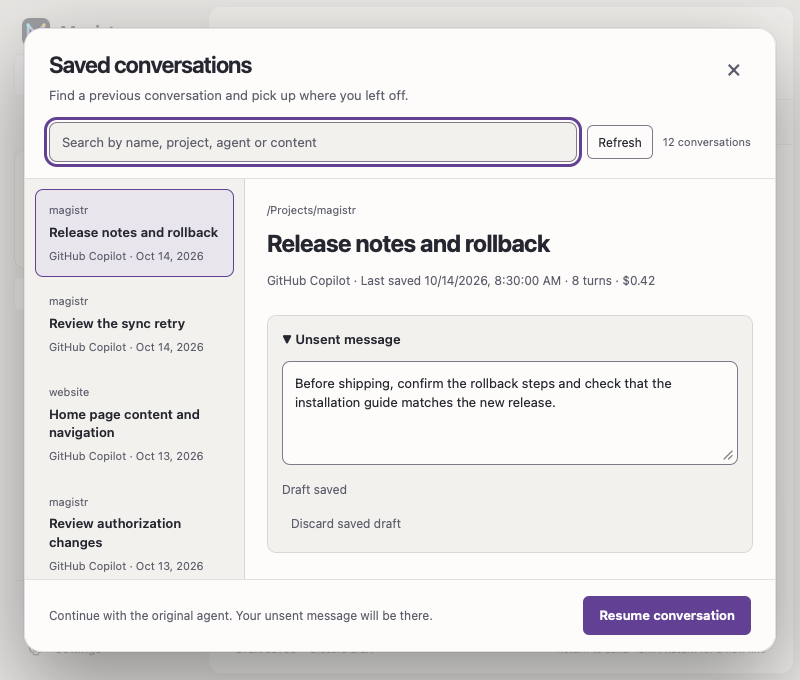
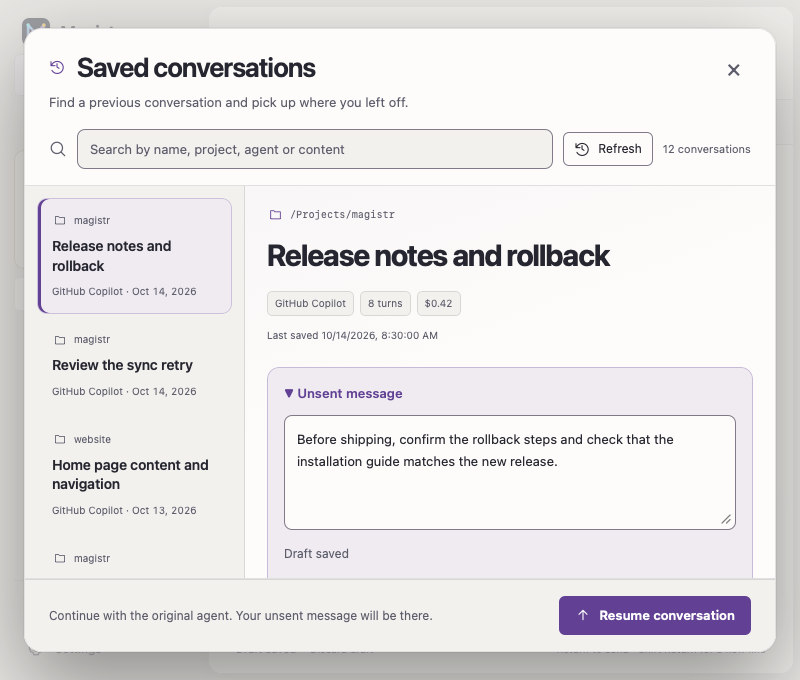
feat(desktop): redesign the saved conversation archive

diff --git a/crates/magistr-desktop/ui/style.css b/crates/magistr-desktop/ui/style.css
@@ -312,39 +312,39 @@ dialog h3{margin:20px 0 10px;font-size:17px}.dialog-actions{display:flex;justify
 #history-picker{width:1000px;max-width:calc(100vw - 48px);height:min(740px,calc(100dvh - 56px));max-height:calc(100dvh - 56px);padding:0}
 #history-picker[open]{display:flex;flex-direction:column}
 .history-heading{display:flex;align-items:flex-start;justify-content:space-between;gap:24px;padding:24px 28px 18px}
-.history-heading h2{margin:0 0 6px;font-size:23px}.history-heading p{font-size:13px;margin:0}
+.history-heading h2{margin:0 0 8px;font-size:27px;display:flex;align-items:center;gap:12px}.history-heading h2::before{width:25px;height:25px;color:var(--accent)}.history-heading p{font-size:13px;margin:0}
 #history-close{border:0;background:transparent;font-size:24px;width:34px;height:34px;min-width:34px;line-height:1;padding:0;text-align:center;color:var(--muted)}
 #history-close:hover{background:var(--panel)}
-.history-search{display:flex;align-items:center;gap:10px;padding:0 28px 18px}
+.history-search{display:flex;align-items:center;gap:10px;padding:0 28px 18px}.history-search>[data-icon]{color:var(--muted);width:19px;height:19px}
 #history-search{min-width:0;flex:1;background:var(--panel);padding:9px 12px;font-size:13px}
 #history-refresh{font-size:12px;background:transparent}#history-count{font-size:11px;margin:0;white-space:nowrap}
 #history-error{margin:0;padding:10px 28px;border-top:1px solid var(--separator)}
 #history-picker .history-layout{display:grid;grid-template-columns:280px minmax(0,1fr);gap:0;padding:0;flex:1;min-height:0;overflow:hidden;border-block:1px solid var(--separator)}
-#history-list{display:flex;flex-direction:column;gap:3px;overflow:auto;min-height:0;padding:10px;background:var(--panel);border-right:1px solid var(--separator)}
-#history-list button{flex-shrink:0;width:100%;border-color:transparent;background:transparent;padding:12px 13px;overflow-wrap:anywhere;border-radius:8px}
-#history-list button:hover,#history-list button[aria-current=true]{background:var(--raised)}
-#history-list button[aria-current=true]{border-color:var(--accent)}
+#history-list{display:flex;flex-direction:column;gap:3px;overflow:auto;min-height:0;padding:12px;background:var(--panel);border-right:1px solid var(--separator)}
+#history-list button{flex-shrink:0;width:100%;border-color:transparent;background:transparent;padding:14px;overflow-wrap:anywhere;border-radius:10px}
+#history-list button:hover{background:var(--raised)}
+#history-list button[aria-current=true]{background:var(--tint);border-color:color-mix(in srgb,var(--accent) 25%,transparent);box-shadow:inset 3px 0 var(--accent)}
 #history-list button[aria-busy=true]{opacity:.65}
-#history-list small{display:block;font-size:11px;color:var(--muted);margin-bottom:4px}
-#history-list strong{display:block;font-size:13px;line-height:1.45;font-weight:600}
-#history-list span{display:block;font-size:11px;color:var(--muted);margin-top:6px}
+#history-list small{display:flex;align-items:center;gap:6px;font-size:10px;color:var(--muted);margin-bottom:8px}#history-list small::before{width:12px;height:12px}
+#history-list strong{display:block;font-size:14px;line-height:1.4;font-weight:600;letter-spacing:-.015em}
+#history-list span{display:block;font-size:10px;color:var(--muted);margin-top:9px;font-variant-numeric:tabular-nums}
 .history-list-empty{font-size:13px;padding:12px}
-#history-reading{min-width:0;min-height:0;overflow:auto;padding:28px}
+#history-reading{min-width:0;min-height:0;overflow:auto;padding:32px;background:linear-gradient(160deg,color-mix(in srgb,var(--accent) 3%,var(--base)),var(--base) 45%)}
 #history-summary{min-width:0}
-#history-project{font-size:11px;color:var(--muted);overflow-wrap:anywhere;margin:0 0 9px}
-#history-name{font-size:24px;line-height:1.25;letter-spacing:-.025em;margin:0 0 12px;overflow-wrap:anywhere}
-#history-details{font-size:12px;line-height:1.7;overflow-wrap:anywhere;margin:0 0 24px}
+#history-project{display:flex;align-items:center;gap:7px;font:10px var(--font-code);color:var(--muted);overflow-wrap:anywhere;margin:0 0 16px}#history-project::before{width:13px;height:13px;color:var(--accent)}
+#history-name{font-size:30px;line-height:1.2;letter-spacing:-.04em;margin:0 0 18px;overflow-wrap:anywhere}
+#history-details{display:flex;flex-wrap:wrap;gap:6px;font-size:10px;line-height:1.5;overflow-wrap:anywhere;margin:0 0 24px;color:var(--muted)}#history-details>span{padding:4px 7px;border:1px solid var(--separator);border-radius:5px;background:var(--panel)}#history-details>.history-saved-date{flex-basis:100%;padding:6px 0 0;border:0;background:transparent}
 .history-empty{margin:48px auto;max-width:300px}.history-empty h3{font-size:22px;line-height:1.3;margin-top:0}.history-empty p{font-size:13px}
 .saved-reply h4{font-size:11px;letter-spacing:.05em;text-transform:uppercase;color:var(--muted);font-weight:650;margin:26px 0 12px}
-#history-text{white-space:pre-wrap;overflow-wrap:anywhere;font-size:14px;line-height:1.75;margin:0}
-#saved-draft{border:1px solid var(--separator);border-radius:9px;padding:14px;background:var(--panel)}
+#history-text{white-space:pre-wrap;overflow-wrap:anywhere;font-size:15px;line-height:1.8;margin:0}.saved-reply{border-top:1px solid var(--separator);margin-top:24px}.saved-reply h4{margin-top:20px}
+#saved-draft{border:1px solid color-mix(in srgb,var(--accent) 28%,transparent);border-radius:12px;padding:16px;background:var(--tint)}#saved-draft>summary{color:var(--accent)}#saved-message{border-radius:8px;background:var(--base);padding:12px;line-height:1.7}
 #saved-draft>summary{font-size:13px;font-weight:600;cursor:pointer}
 .saved-draft-content{padding-top:12px}
 #saved-message{min-height:104px;background:var(--base);font-size:13px}
 #saved-draft-status{font-size:12px;margin:9px 0;color:var(--muted)}
 .saved-draft-actions{display:flex;gap:8px;flex-wrap:wrap}.saved-draft-actions button{font-size:12px;min-height:30px;padding:5px 8px}
 #discard-saved-draft{border-color:transparent;background:transparent;color:var(--muted)}
-.history-footer{display:flex;align-items:center;justify-content:space-between;gap:24px;padding:18px 28px;flex-shrink:0}
+.history-footer{display:flex;align-items:center;justify-content:space-between;gap:24px;padding:18px 28px;flex-shrink:0;background:var(--panel);border-top:1px solid var(--separator)}
 #history-resume-reason{font-size:12px;line-height:1.5;margin:0;max-width:540px}
 #history-resume{white-space:nowrap;font-size:13px;font-weight:600;background:var(--button);color:var(--button-text);border-color:var(--button);padding:9px 15px}
 @media(max-width:900px){#history-picker .history-layout{grid-template-columns:220px minmax(0,1fr)}#history-reading{padding:22px}.history-heading{padding:22px 24px 16px}.history-search{padding:0 24px 16px}.history-footer{padding:16px 24px;gap:16px}}

diff --git a/crates/magistr-desktop/ui/index.html b/crates/magistr-desktop/ui/index.html
@@ -142,21 +142,21 @@
   </form>
 </dialog>
 <dialog id="history-picker" aria-labelledby="history-title">
-  <header class="history-heading"><div><h2 id="history-title">Saved conversations</h2><p>Find a previous conversation and pick up where you left off.</p></div><button id="history-close" aria-label="Close saved conversations">×</button></header>
-  <div class="history-search"><label for="history-search" class="sr-only">Search saved conversations</label><input id="history-search" type="search" placeholder="Search by name, project, agent or content"><button id="history-refresh">Refresh</button><p id="history-count" role="status"></p></div>
+  <header class="history-heading"><div><h2 id="history-title" data-leading-icon="history">Saved conversations</h2><p>Find a previous conversation and pick up where you left off.</p></div><button id="history-close" aria-label="Close saved conversations">×</button></header>
+  <div class="history-search"><span data-icon="search" aria-hidden="true"></span><label for="history-search" class="sr-only">Search saved conversations</label><input id="history-search" type="search" placeholder="Search by name, project, agent or content"><button id="history-refresh" data-leading-icon="history">Refresh</button><p id="history-count" role="status"></p></div>
   <p id="history-error" class="error" role="alert" tabindex="-1" hidden></p>
   <div class="history-layout">
     <nav id="history-list" aria-label="Saved conversations"></nav>
     <div id="history-reading">
       <section id="history-empty" class="history-empty"><h3>Choose a conversation</h3><p>Read its last saved reply, recover an unsent message or resume with the original agent.</p></section>
       <section id="history-summary" tabindex="-1" aria-label="Saved summary" hidden>
-        <header class="history-summary-heading"><p id="history-project"></p><h3 id="history-name"></h3><p id="history-details"></p></header>
+        <header class="history-summary-heading"><p id="history-project" data-leading-icon="folder"></p><h3 id="history-name"></h3><div id="history-details"></div></header>
         <details id="saved-draft" hidden><summary>Unsent message</summary><div class="saved-draft-content"><label for="saved-message" class="sr-only">Saved message</label><textarea id="saved-message" rows="4" maxlength="1048576" placeholder="Write a message to continue with later…"></textarea><div id="saved-attachments" class="attachments" role="list" aria-label="Saved files" hidden></div><p id="saved-draft-status" role="status"></p><div class="saved-draft-actions"><button id="save-saved-message">Retry save</button><button id="discard-saved-draft">Discard saved draft</button></div></div></details>
         <section class="saved-reply" aria-label="Last saved reply"><h4>Last saved reply</h4><p id="history-text"></p></section>
       </section>
     </div>
   </div>
-  <footer class="history-footer"><p id="history-resume-reason">Reading saved conversations does not start an agent.</p><button id="history-resume" disabled>Resume conversation</button></footer>
+  <footer class="history-footer"><p id="history-resume-reason">Reading saved conversations does not start an agent.</p><button id="history-resume" data-leading-icon="arrow" disabled>Resume conversation</button></footer>
 </dialog>
 <script type="module" src="app.mjs"></script>
 </body></html>
